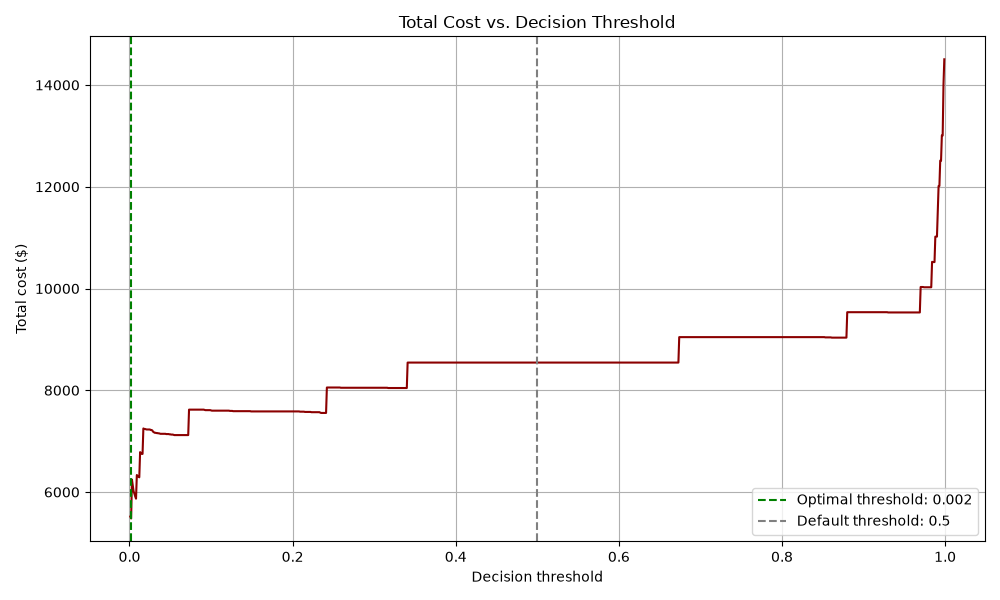
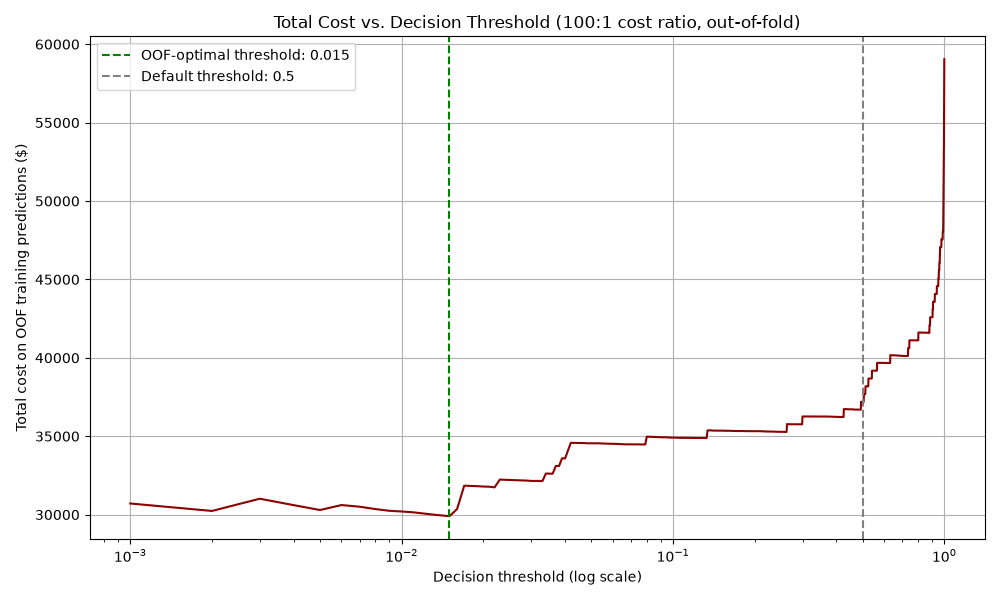
Select alert threshold on out-of-fold training predictions
The previous threshold (0.002) was chosen on the test split and its cost
was reported on the same split, which is optimistic.

- cost_analysis.py: 5-fold stratified CV on the training split produces
  out-of-fold probabilities (same configuration as the served model); the
  cost-optimal threshold (0.001-0.999 grid) is selected on them, per-fold
  optima are reported for stability, and the test split is used once for
  the final evaluation. Also prints the 100:1 / 50:1 / 20:1 sensitivity
  table; the plot now shows the OOF cost curve.
- OOF optimum is 0.015 for all three cost ratios. At 100:1 two of five
  folds hit the 0.001 grid edge and OOF cost stays within 5% of its
  minimum from 0.001 to 0.016 (flat curve).
- Test split at 0.015: recall 0.867, precision 0.630, 135 alerts,
  cost $6,750 vs. $8,545 at 0.5 (21% saving).
- ALERT_THRESHOLD 0.002 -> 0.015 in api_service.py and
  realtime_simulation.py; registry note for 2.0.0 records the threshold.

diff --git a/src/cost_analysis.py b/src/cost_analysis.py
@@ -2,74 +2,131 @@
 
 The default 0.5 classification threshold ignores the fact that missing a
 fraud case and raising a false alarm have very different costs. This script
-sweeps the decision threshold and finds the one that minimizes total
-expected cost, given assumed per-error costs. See README.md
-("Cost-Sensitive Threshold Optimization") for the resulting analysis.
+picks the threshold that minimizes total expected cost, given assumed
+per-error costs, without touching the test split:
+
+1. 5-fold stratified CV on the training split produces out-of-fold (OOF)
+   probabilities from the same model configuration that is served.
+2. The cost-optimal threshold is selected on those OOF predictions; the
+   per-fold optima are reported to show how stable it is.
+3. The selected threshold is evaluated once on the held-out test split,
+   using a model trained on the full training split (the served model).
+
+See README.md ("Cost-Sensitive Threshold Optimization") for the resulting
+analysis.
 """
 
 import matplotlib.pyplot as plt
 import numpy as np
-from sklearn.model_selection import train_test_split
+from sklearn.model_selection import StratifiedKFold
 from xgboost import XGBClassifier
-from data_prep import get_base_feature_cols, load_dataset
+from data_prep import get_base_feature_cols, get_train_test_indices, load_dataset_with_graph_features
 
 RANDOM_STATE = 42
-TEST_SIZE = 0.2
+N_FOLDS = 5
 DEFAULT_THRESHOLD = 0.5
+THRESHOLDS = np.round(np.arange(0.001, 1.0, 0.001), 3)
 
 # Assumed costs -- in a real bank these would come from finance/risk teams,
 # not be hardcoded. Used here as a reasonable illustrative estimate.
 COST_FALSE_NEGATIVE = 500  # average cost of a missed fraud transaction ($)
 COST_FALSE_POSITIVE = 5  # average cost of reviewing a false alarm ($)
+SENSITIVITY_RATIOS = (100, 50, 20)  # FN:FP cost ratios; 100:1 is the assumption above
 
 PLOT_PATH = "data/cost_analysis.png"
 
 
-def total_cost_by_threshold(y_true, y_proba, thresholds):
-    costs = []
-    for t in thresholds:
-        y_pred = (y_proba >= t).astype(int)
-        false_negatives = ((y_true == 1) & (y_pred == 0)).sum()
-        false_positives = ((y_true == 0) & (y_pred == 1)).sum()
-        costs.append(false_negatives * COST_FALSE_NEGATIVE + false_positives * COST_FALSE_POSITIVE)
-    return np.array(costs)
+def train_model(X, y):
+    """Same configuration as the served baseline model (train_with_graph_features.py)."""
+    scale_pos_weight = (y == 0).sum() / (y == 1).sum()
+    model = XGBClassifier(scale_pos_weight=scale_pos_weight, random_state=RANDOM_STATE, eval_metric="logloss")
+    return model.fit(X, y)
 
 
-df, v_columns = load_dataset()
+def total_cost_by_threshold(y_true, y_proba, fn_cost, fp_cost=COST_FALSE_POSITIVE):
+    y_true = np.asarray(y_true)
+    predicted = np.asarray(y_proba)[None, :] >= THRESHOLDS[:, None]
+    false_negatives = (~predicted & (y_true == 1)).sum(axis=1)
+    false_positives = (predicted & (y_true == 0)).sum(axis=1)
+    return false_negatives * fn_cost + false_positives * fp_cost
+
+
+def optimal_threshold(y_true, y_proba, fn_cost):
+    """Return (threshold, is_at_grid_edge, cost curve)."""
+    costs = total_cost_by_threshold(y_true, y_proba, fn_cost)
+    idx = int(np.argmin(costs))
+    return THRESHOLDS[idx], idx in (0, len(THRESHOLDS) - 1), costs
+
+
+def evaluate(y_true, y_proba, threshold, fn_cost):
+    y_true = np.asarray(y_true)
+    predicted = np.asarray(y_proba) >= threshold
+    tp = int((predicted & (y_true == 1)).sum())
+    fp = int((predicted & (y_true == 0)).sum())
+    fn = int((y_true == 1).sum()) - tp
+    return {
+        "recall": tp / (tp + fn),
+        "precision": tp / (tp + fp) if tp + fp else float("nan"),
+        "alerts": tp + fp,
+        "cost": fn * fn_cost + fp * COST_FALSE_POSITIVE,
+    }
+
+
+df, v_columns = load_dataset_with_graph_features()
 feature_cols = get_base_feature_cols(v_columns)
-X, y = df[feature_cols], df["is_fraud"]
+train_idx, test_idx = get_train_test_indices(df)
+X_train, y_train = df.loc[train_idx, feature_cols], df.loc[train_idx, "is_fraud"].to_numpy()
+X_test, y_test = df.loc[test_idx, feature_cols], df.loc[test_idx, "is_fraud"].to_numpy()
 
-X_train, X_test, y_train, y_test = train_test_split(
-    X, y, test_size=TEST_SIZE, random_state=RANDOM_STATE, stratify=y
-)
+# --- 1. Out-of-fold probabilities on the training split ---
+oof_proba = np.zeros(len(y_train))
+fold_ids = np.zeros(len(y_train), dtype=int)
+skf = StratifiedKFold(n_splits=N_FOLDS, shuffle=True, random_state=RANDOM_STATE)
+for fold, (fit_idx, holdout_idx) in enumerate(skf.split(X_train, y_train)):
+    fold_model = train_model(X_train.iloc[fit_idx], y_train[fit_idx])
+    oof_proba[holdout_idx] = fold_model.predict_proba(X_train.iloc[holdout_idx])[:, 1]
+    fold_ids[holdout_idx] = fold
 
-scale_pos_weight = (y_train == 0).sum() / (y_train == 1).sum()
-model = XGBClassifier(scale_pos_weight=scale_pos_weight, random_state=RANDOM_STATE, eval_metric="logloss")
-model.fit(X_train, y_train)
-y_proba = model.predict_proba(X_test)[:, 1]
+# --- 3. The served model, for the single test-split evaluation ---
+test_proba = train_model(X_train, y_train).predict_proba(X_test)[:, 1]
 
-thresholds = np.round(np.arange(0.001, 1.0, 0.001), 3)  # fine grid: the optimum can sit well below 0.01
-total_costs = total_cost_by_threshold(y_test, y_proba, thresholds)
+# --- 2. Threshold selection on OOF predictions, per cost ratio ---
+print(f"Threshold selected on OOF predictions ({N_FOLDS}-fold CV on the training split), "
+      f"evaluated once on the test split.\n")
+selected = None
+for ratio in SENSITIVITY_RATIOS:
+    fn_cost = COST_FALSE_POSITIVE * ratio
+    threshold, at_edge, oof_costs = optimal_threshold(y_train, oof_proba, fn_cost)
+    near_optimal = THRESHOLDS[oof_costs <= oof_costs.min() * 1.05]
+    fold_optima = [optimal_threshold(y_train[fold_ids == k], oof_proba[fold_ids == k], fn_cost) for k in range(N_FOLDS)]
+    test_result = evaluate(y_test, test_proba, threshold, fn_cost)
+    test_default = evaluate(y_test, test_proba, DEFAULT_THRESHOLD, fn_cost)
 
-optimal_idx = np.argmin(total_costs)
-optimal_threshold = thresholds[optimal_idx]
-default_idx = np.argmin(np.abs(thresholds - DEFAULT_THRESHOLD))
+    print(f"=== FN:FP cost {ratio}:1 (missed fraud ${fn_cost}, false alarm ${COST_FALSE_POSITIVE}) ===")
+    print(f"OOF-optimal threshold: {threshold:.3f}" + ("  WARNING: at the edge of the search grid" if at_edge else ""))
+    print(f"OOF cost within 5% of its minimum for thresholds {near_optimal.min():.3f}-{near_optimal.max():.3f}")
+    print("Per-fold optimal thresholds: " + ", ".join(
+        f"{t:.3f}{' (grid edge)' if edge else ''}" for t, edge, _ in fold_optima))
+    print(f"Test split @ {threshold:.3f}: recall {test_result['recall']:.3f}, precision {test_result['precision']:.3f}, "
+          f"alerts {test_result['alerts']}, total cost ${test_result['cost']:,}")
+    print(f"Test split @ {DEFAULT_THRESHOLD}: recall {test_default['recall']:.3f}, "
+          f"precision {test_default['precision']:.3f}, alerts {test_default['alerts']}, "
+          f"total cost ${test_default['cost']:,} (saving {1 - test_result['cost'] / test_default['cost']:.1%})\n")
 
-print(f"Optimal threshold: {optimal_threshold:.3f}")
-if optimal_idx in (0, len(thresholds) - 1):
-    print("WARNING: optimum is at the edge of the search grid; the true optimum may lie outside it.")
-print(f"Total cost at optimal threshold: ${total_costs[optimal_idx]:,.0f}")
-print(f"Total cost at default threshold ({DEFAULT_THRESHOLD}): ${total_costs[default_idx]:,.0f}")
+    if fn_cost == COST_FALSE_NEGATIVE:
+        selected = (threshold, oof_costs)
 
+threshold, oof_costs = selected
 plt.figure(figsize=(10, 6))
-plt.plot(thresholds, total_costs, color="darkred")
-plt.axvline(optimal_threshold, color="green", linestyle="--", label=f"Optimal threshold: {optimal_threshold:.3f}")
+plt.plot(THRESHOLDS, oof_costs, color="darkred")
+plt.axvline(threshold, color="green", linestyle="--", label=f"OOF-optimal threshold: {threshold:.3f}")
 plt.axvline(DEFAULT_THRESHOLD, color="gray", linestyle="--", label=f"Default threshold: {DEFAULT_THRESHOLD}")
-plt.xlabel("Decision threshold")
-plt.ylabel("Total cost ($)")
-plt.title("Total Cost vs. Decision Threshold")
+plt.xscale("log")
+plt.xlabel("Decision threshold (log scale)")
+plt.ylabel("Total cost on OOF training predictions ($)")
+plt.title(f"Total Cost vs. Decision Threshold ({COST_FALSE_NEGATIVE // COST_FALSE_POSITIVE}:1 cost ratio, out-of-fold)")
 plt.legend()
 plt.grid(True)
 plt.tight_layout()
 plt.savefig(PLOT_PATH)
-print(f"\nPlot saved to {PLOT_PATH}")
+print(f"Plot saved to {PLOT_PATH}")

diff --git a/src/create_model_registry.py b/src/create_model_registry.py
@@ -29,7 +29,11 @@ registry = {
             "feature_set": "base",
             "training_date": "2026-09-23",
             "metrics": {"pr_auc": 0.876, "roc_auc": 0.975},
-            "notes": "Balanced via scale_pos_weight, base feature set (amount, SQL features, V1-V28).",
+            "notes": (
+                "Balanced via scale_pos_weight, base feature set (amount, SQL features, V1-V28). "
+                "Served with alert threshold 0.015, cost-optimal (100:1 FN:FP) on out-of-fold "
+                "predictions from 5-fold CV on the training split; see cost_analysis.py."
+            ),
         },
         {
             "version": "3.0.0",

diff --git a/src/api_service.py b/src/api_service.py
@@ -24,7 +24,7 @@ load_dotenv()
 
 REGISTRY_PATH = "models/model_registry.json"
 LOG_PATH = "logs/prediction_log.jsonl"
-ALERT_THRESHOLD = 0.002  # cost-optimal at 100:1 FN:FP cost, see cost_analysis.py / README.md
+ALERT_THRESHOLD = 0.015  # cost-optimal on out-of-fold training predictions (100:1 FN:FP), see cost_analysis.py
 N8N_WEBHOOK_URL = os.getenv("N8N_WEBHOOK_URL")  # unset -> webhook notifications disabled
 # Explicit off switch (e.g. while populate_logs.py fills the logs). Needed because an
 # unset/empty N8N_WEBHOOK_URL is refilled from .env by load_dotenv().

diff --git a/src/realtime_simulation.py b/src/realtime_simulation.py
@@ -18,7 +18,7 @@ FEATURE_COLS_PATH = "models/baseline_feature_columns.pkl"
 
 SAMPLE_SEED = 7
 N_NORMAL_SAMPLES = 50
-ALERT_THRESHOLD = 0.002  # cost-optimal at 100:1 FN:FP cost, see cost_analysis.py / README.md
+ALERT_THRESHOLD = 0.015  # cost-optimal on out-of-fold training predictions (100:1 FN:FP), see cost_analysis.py
 STREAM_DELAY_SECONDS = 0.1
 
 
